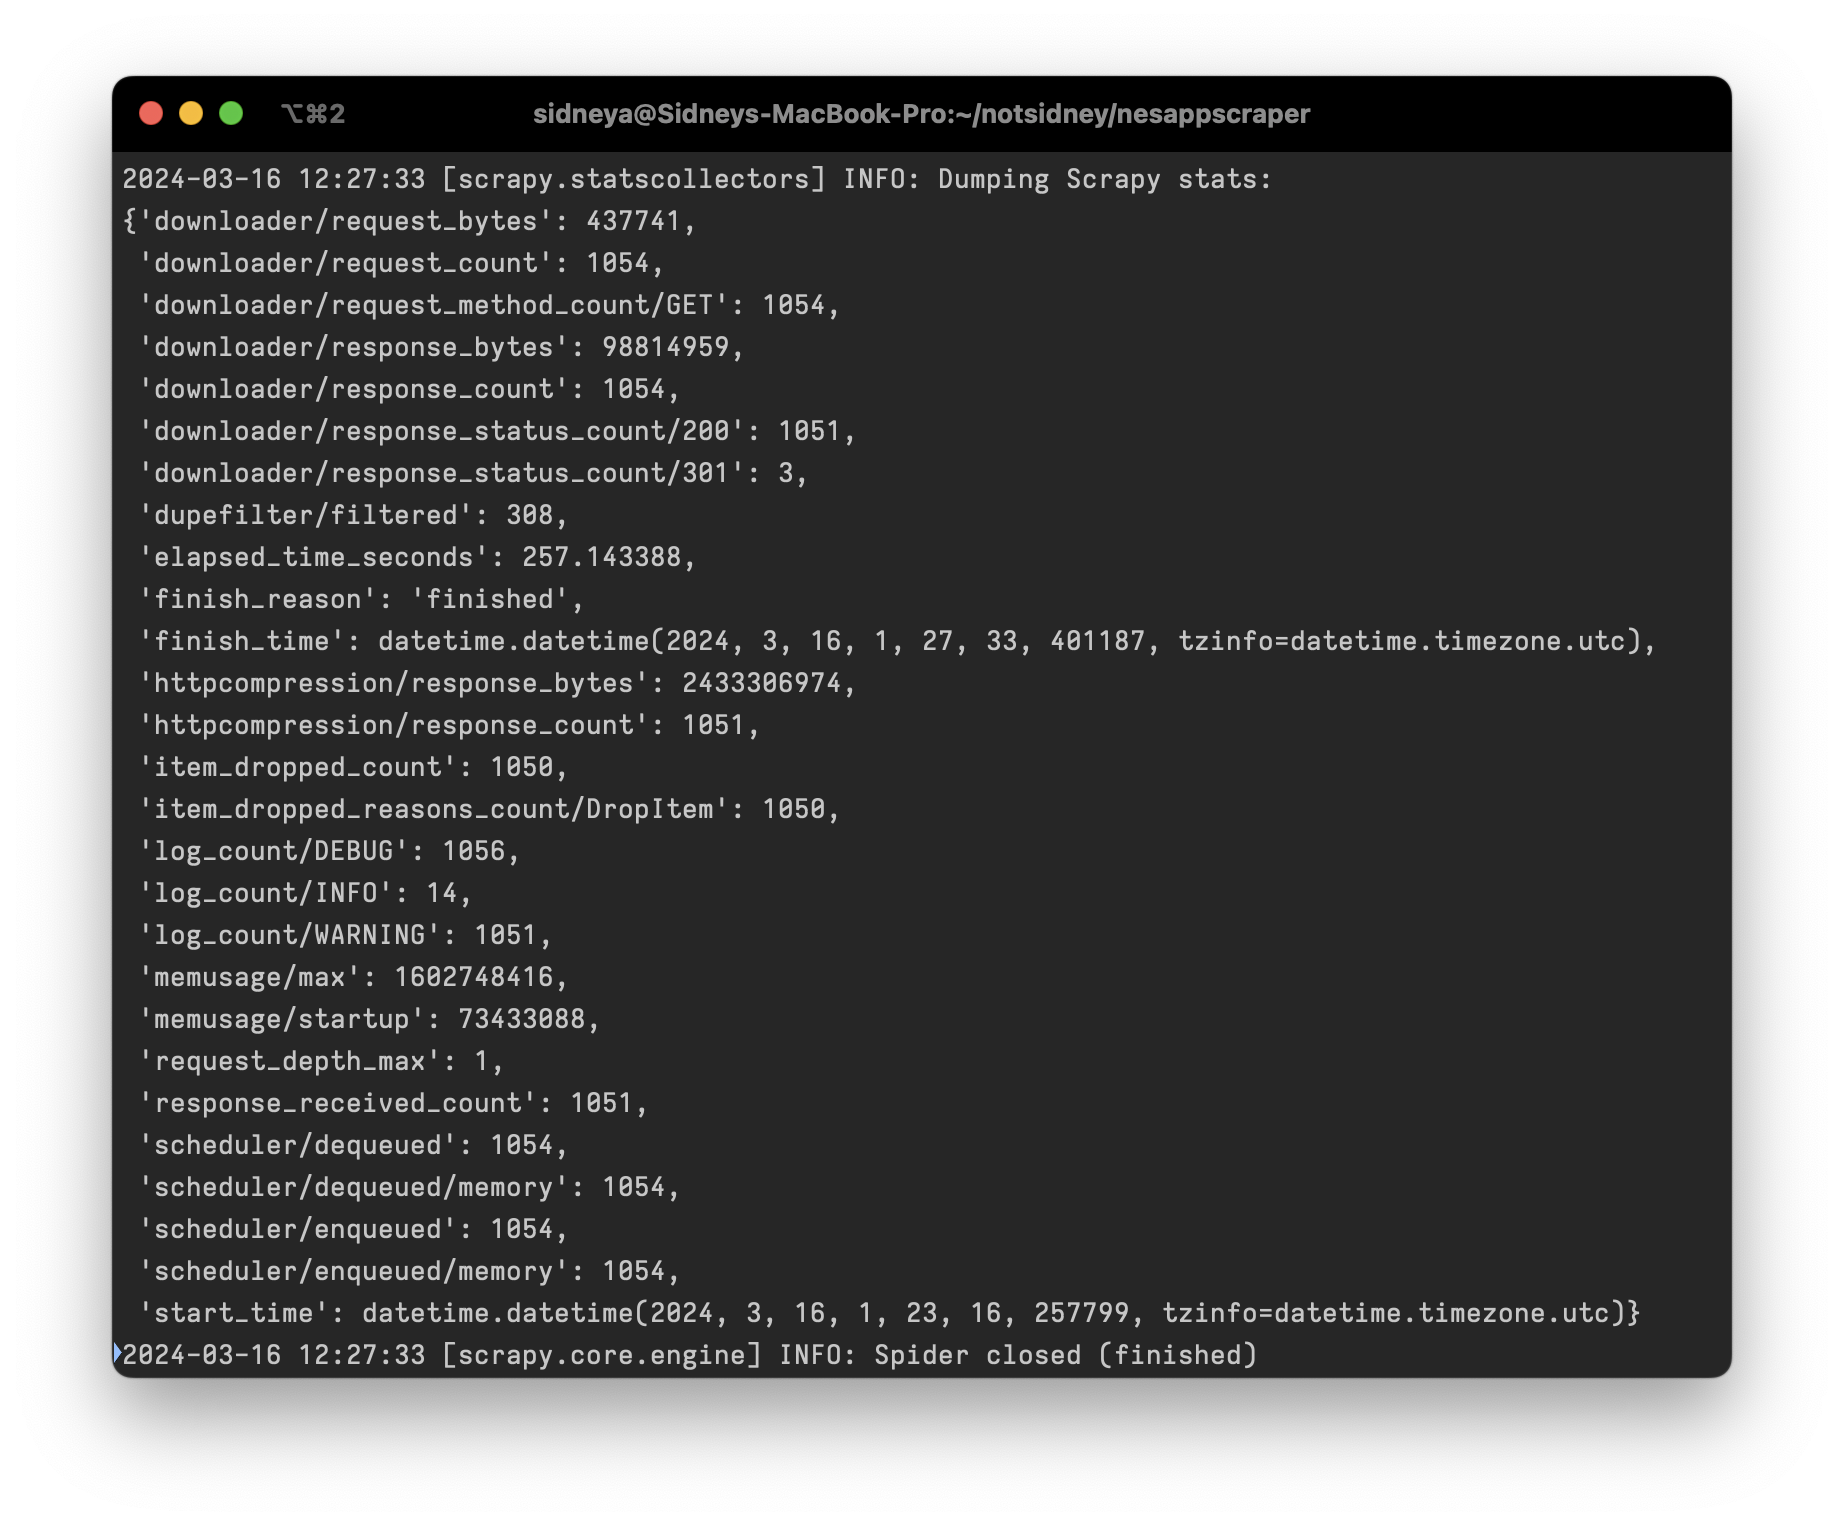
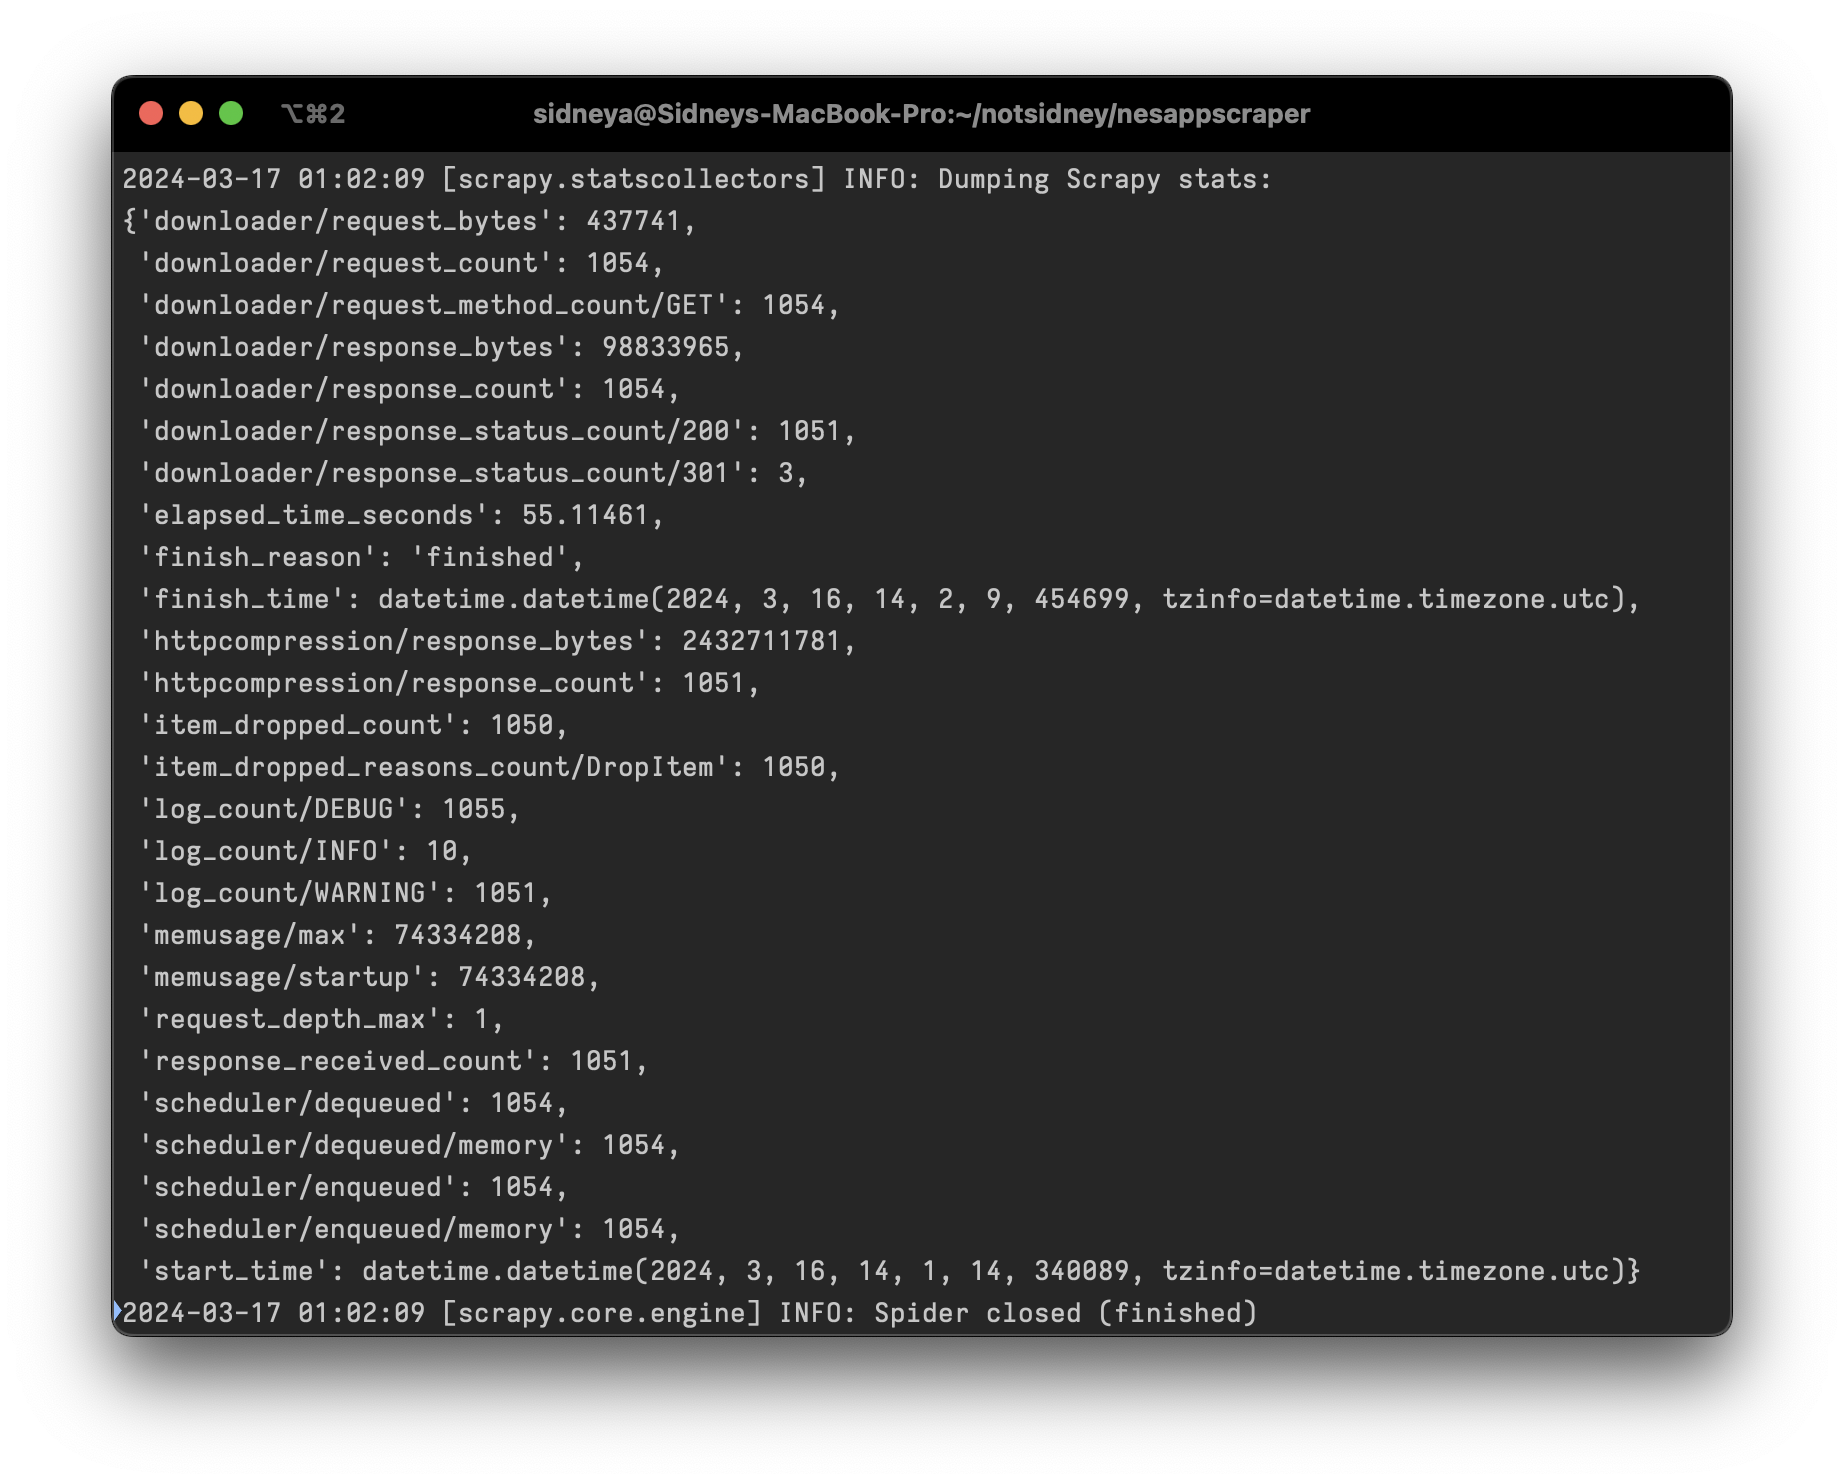
update runtime stats

Changed region(s): [[0.0309, 0.062, 0.9582, 0.9609], [0.4946, 0.403, 0.8964, 0.434], [0.0618, 0.031, 0.0927, 0.062]]

diff --git a/README.md b/README.md
@@ -171,14 +171,13 @@ In `pipelines.py` inside the `nesappscraper` folder:
 
 ### Runtime stats
 
-On a 2018 13″ MacBook Pro (i5-8259U) with ~45 Mbps download connection:
+On an M1 Max 16″ MacBook Pro with ~50 Mbps download connection:
 
-- Runtime: ~7 min
-- CPU usage: typically 70–80%, spiked at 90%
-- RAM usage: typically 150 MB, spiked at 350 MB
-- Total bytes sent: ~700 KB
-- Total bytes received: ~140 MB
-- Scrapy stats: ![Screenshot of Scrapy stats from Terminal](https://imgur.com/QqIoCXe.png)
+- Runtime: ~1 min
+- RAM usage: ~75 MB
+- Total bytes sent: ~440 KB
+- Total bytes received: ~100 MB
+- Scrapy stats: ![Screenshot of Scrapy stats from Terminal](./scrapy_stats.png)
 
 On Scrapy Cloud with 1 unit, it ran for **~55 min**.
 
